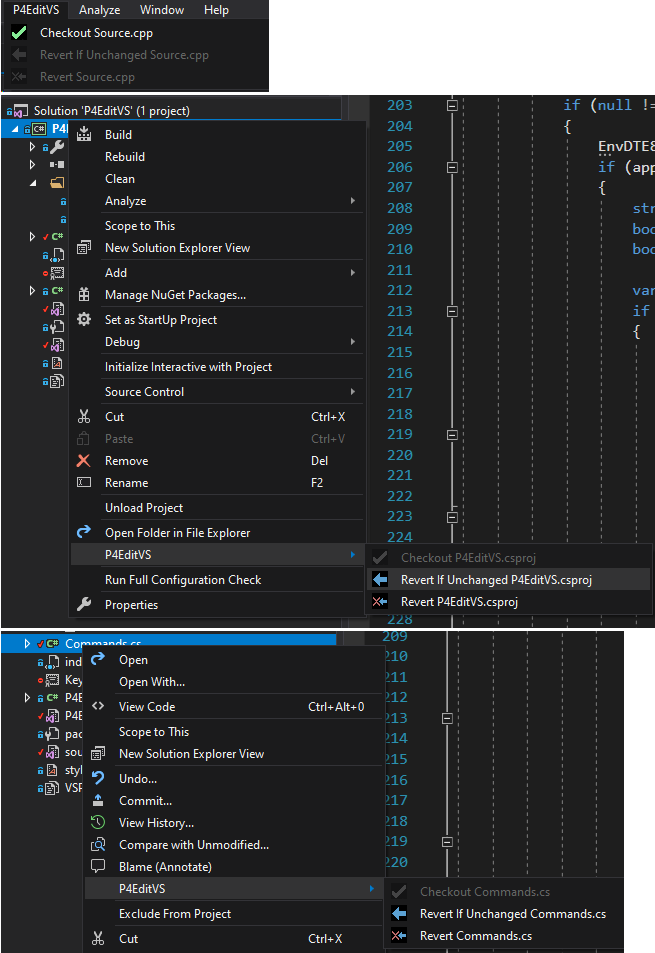
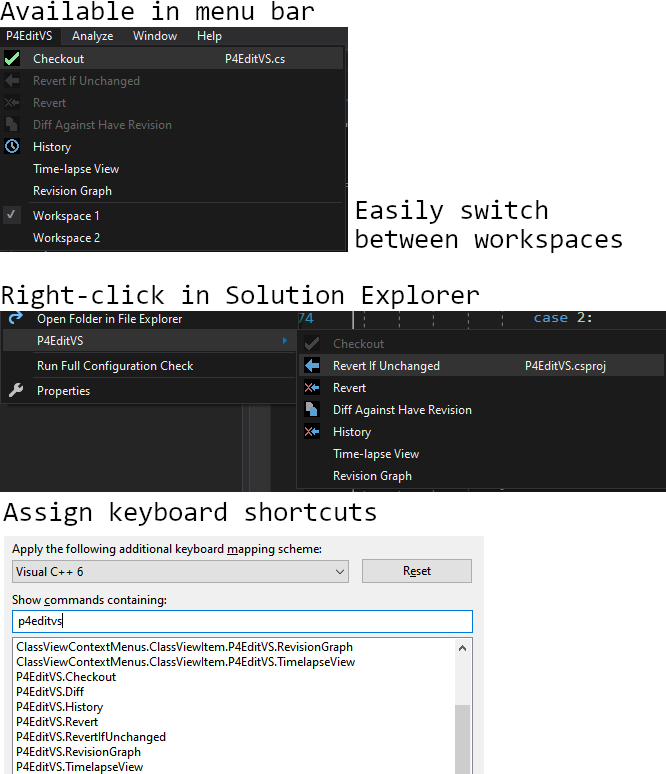
cleaned up menu text. Added screenshot for v1.3

diff --git a/P4EditVS/Commands.cs b/P4EditVS/Commands.cs
@@ -252,49 +252,50 @@ namespace P4EditVS
                 case CheckoutCommandId:
                 case CtxtCheckoutCommandId:
                     {
-                        command.Text = string.Format("Checkout {0}", name);
+                        // This is first command in the menu so rather than bloating the whole thing just display the filename at the top to the right
                         command.Enabled = isReadOnly;
+                        command.Text = command.Enabled ? string.Format("Checkout\t\t\t{0}", name) : "Checkout";
                     }
                     break;
                 case RevertIfUnchangedCommandId:
                 case CtxtRevertIfUnchangedCommandId:
                     {
-                        command.Text = string.Format("Revert If Unchanged {0}", name);
                         command.Enabled = !isReadOnly;
+                        command.Text = command.Enabled ? string.Format("Revert If Unchanged\t\t{0}", name) : "Revert If Unchanged";
                     }
                     break;
                 case RevertCommandId:
                 case CtxtRevertCommandId:
                     {
-                        command.Text = string.Format("Revert {0}", name);
+                        command.Text = "Revert";
                         command.Enabled = !isReadOnly;
                     }
                     break;
                 case DiffCommandId:
                 case CtxtDiffCommandId:
                     {
-                        command.Text = string.Format("Diff Against Have Revision {0}", name);
+                        command.Text = "Diff Against Have Revision";
                         command.Enabled = !isReadOnly;
                     }
                     break;
                 case HistoryCommandId:
                 case CtxtHistoryCommandId:
                     {
-                        command.Text = string.Format("History {0}", name);
+                        command.Text = "History";
                         command.Enabled = true;
                     }
                     break;
                 case TimelapseViewCommandId:
                 case CtxtTimelapseViewCommandId:
                     {
-                        command.Text = string.Format("Time-lapse View {0}", name);
+                        command.Text = "Time-lapse View";
                         command.Enabled = true;
                     }
                     break;
                 case RevisionGraphCommandId:
                 case CtxtRevisionGraphCommandId:
                     {
-                        command.Text = string.Format("Revision Graph {0}", name);
+                        command.Text = "Revision Graph";
                         command.Enabled = true;
                     }
                     break;
